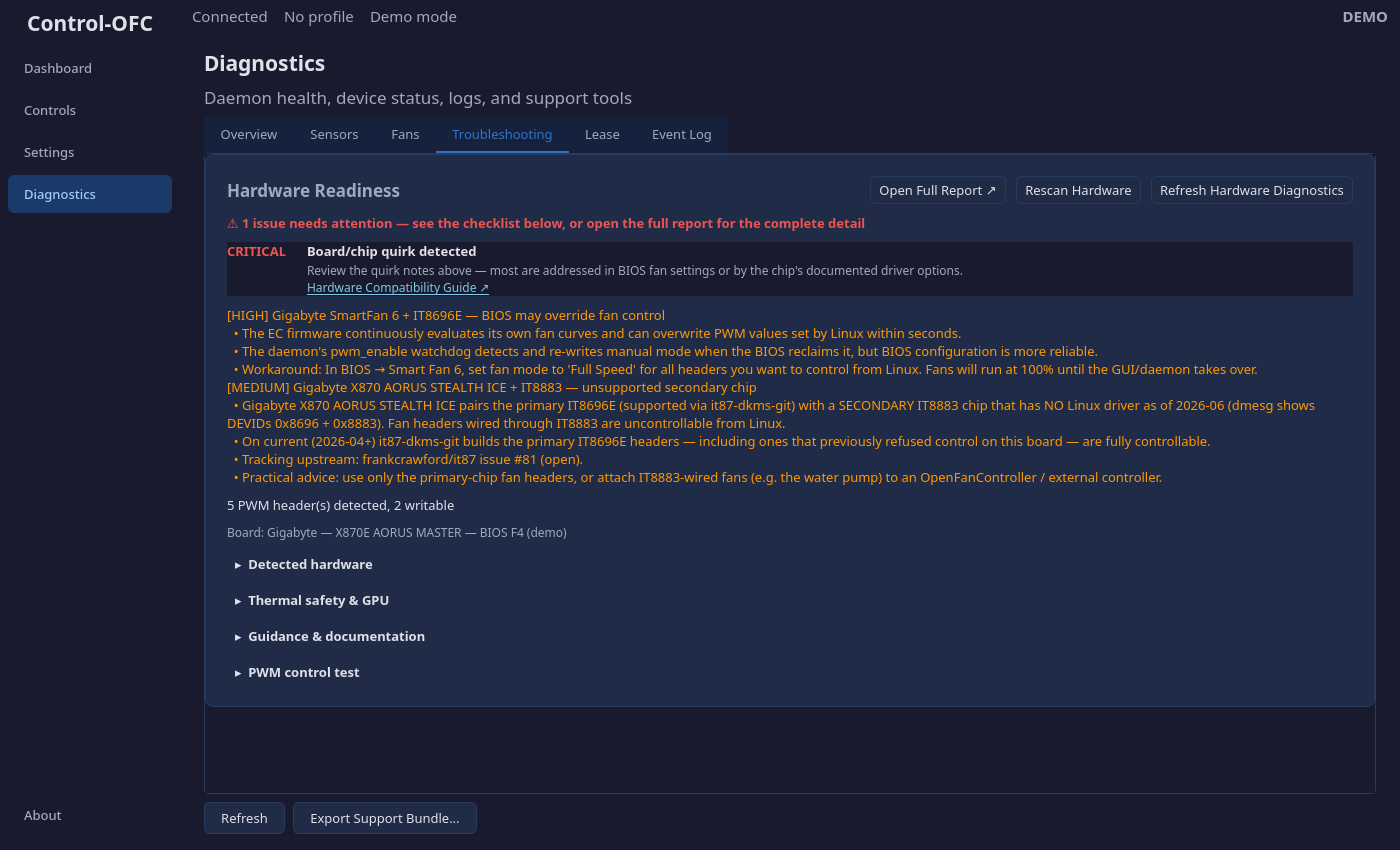
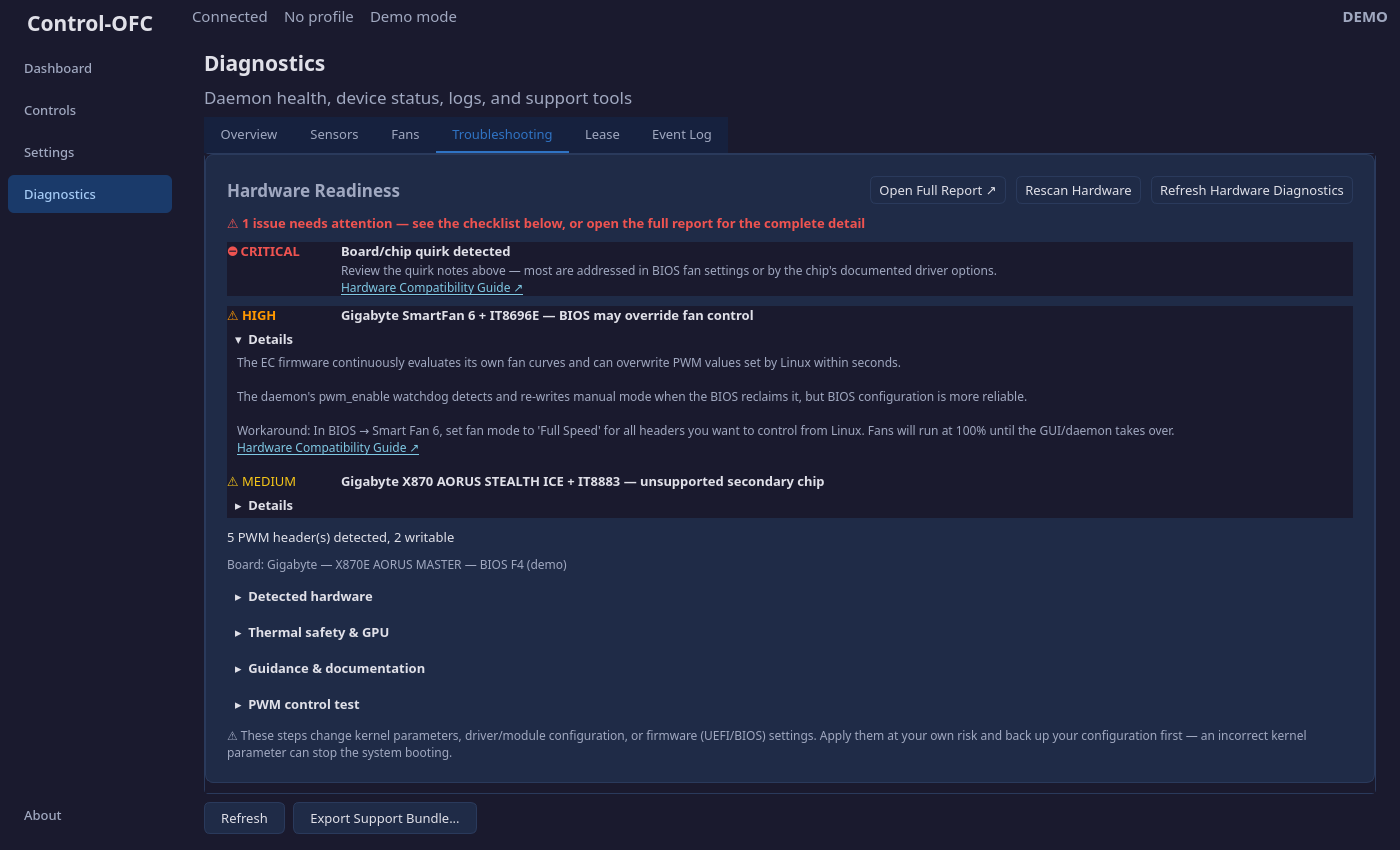
release: v1.41.0 — distinct per-severity Hardware Readiness advisories (DEC-158)
Version bump (pyproject + packaging/PKGBUILD pkgrel=1), CHANGELOG 1.41.0 entry,
README release line, manual refresh (diagnostics + hardware-troubleshooting),
and a recaptured Troubleshooting screenshot showing the four severity tiers.
Pairs with control-ofc-daemon >= v1.18.0 (unchanged — GUI-only release).

Changed region(s): [[0.1536, 0.2753, 0.9829, 0.7953], [0.1229, 0.8259, 0.9829, 0.9482]]

diff --git a/CHANGELOG.md b/CHANGELOG.md
@@ -1,5 +1,28 @@
 # Changelog
 
+## [1.41.0] — 2026-06-17
+
+**Distinct per-severity advisories** in Diagnostics ▸ Troubleshooting ▸ Hardware Readiness
+(GUI-only). DEC-158.
+
+### Added
+- **Each advisory severity is now its own type.** Board/chip vendor quirks render as one
+  collapsible row each, most-severe-first, with a badge that pairs an **icon + word + colour**
+  (never colour alone — WCAG 1.4.1): **CRITICAL** red, **HIGH** orange, **MEDIUM** amber (new
+  `status_caution` theme token), **INFO** blue — so an INFO note no longer looks like a warning.
+- **Collapsible detail per advisory** — open by default for CRITICAL/HIGH, collapsed for
+  MEDIUM/INFO — with clearer prose (bullets only for 3+ short parallel items) and a link to the
+  Hardware Compatibility Guide's *Manufacturer Quirks* section.
+- A single, calm **liability disclaimer** at the bottom of the panel (remediation steps change
+  kernel/driver/firmware settings — applied at your own risk).
+- The pop-out **Full Report** gains a matching **Advisories** section (same data + colours as the
+  inline panel).
+
+### Changed
+- The issue-checklist badges now use the same shared severity presentation (icon + word + colour).
+- Unknown or future severities degrade to the calm INFO treatment rather than appearing as a
+  warning (keeping their own word).
+
 ## [1.40.0] — 2026-06-16
 
 Guided **AIO setup UX — Phase 2** (GUI-only, builds on DEC-156). DEC-157.

diff --git a/manual/diagnostics.md b/manual/diagnostics.md
@@ -97,8 +97,8 @@ The Troubleshooting tab is the **Hardware Readiness** health report — it answe
 It leads with the answer and keeps the detail one click away:
 
 - **Verdict banner** — a green *✓ System ready* line, or an amber/red *⚠ N issue(s) need attention* — always on screen.
-- **Issue checklist** — one row per detected problem, each with a severity badge (**CRITICAL** / **WARNING**), a one-line **fix**, and a clickable link to the relevant documentation. A healthy system shows a single *✓ No issues detected* line. This is the fastest path from "something is wrong" to "here is what to change".
-- **Alerts** — blocking alerts (driver-module collisions, active BIOS interference) and informational notices (dual-chip setup, vendor quirks, ACPI conflicts) appear here when relevant. Safety-critical alerts are always visible — never hidden behind a collapse.
+- **Issue checklist** — one row per detected problem, each with a colour-coded severity badge (**CRITICAL** / **WARN**, icon + word + colour), a one-line **fix**, and a clickable link to the relevant documentation. A healthy system shows a single *✓ No issues detected* line. This is the fastest path from "something is wrong" to "here is what to change".
+- **Alerts & advisories** — blocking alerts (driver-module collisions, active BIOS interference) and informational notices (dual-chip setup, vendor quirks, ACPI conflicts) appear here when relevant. Vendor quirks render as per-advisory rows with a four-tier severity badge (**CRITICAL** red / **HIGH** orange / **MEDIUM** amber / **INFO** blue) and a collapsible detail. Safety-critical alerts are always visible — never hidden behind a collapse.
 - **Detail sections** (collapsed by default, expand on click): **Detected hardware** (chip + kernel-module tables), **BIOS interference detail** (shown only when the BIOS has been reclaiming fan control), **Thermal safety & GPU**, **Guidance & documentation**, and **PWM control test** — the **Test PWM Control** / **Verify All Writable** buttons, plus **Test GPU Fan Control** and **Restore GPU Fan to Automatic** when a writable AMD GPU is present.
 - **Restore GPU Fan to Automatic** hands the GPU fan back to the firmware's default curve — use it to undo a static GPU speed set this session without restarting the daemon. It is disabled (with the reason in its tooltip) while an active profile is driving the GPU fan: remove the GPU from its fan role or deactivate the profile first.
 - **Rescan Hardware** asks the daemon to re-enumerate hwmon sensors and PWM headers — use it right after loading a sensor kernel module (for example following a driver install). New sensors appear within a couple of poll cycles; brand-new fan-*control* hardware still requires a daemon restart.

diff --git a/README.md b/README.md
@@ -1,6 +1,6 @@
 # Control-OFC GUI
 
-**Latest release:** v1.40.0 — 2026-06-16. Pairs with `control-ofc-daemon` ≥ v1.18.0. See [`CHANGELOG.md`](CHANGELOG.md) for the full history.
+**Latest release:** v1.41.0 — 2026-06-17. Pairs with `control-ofc-daemon` ≥ v1.18.0. See [`CHANGELOG.md`](CHANGELOG.md) for the full history.
 
 Desktop fan control interface for Linux. Communicates with the [`control-ofc-daemon`](https://github.com/Plan-B-Development/control-ofc-daemon) service to monitor temperatures, manage fan speeds, and apply custom fan curves.
 

diff --git a/manual/hardware-troubleshooting.md b/manual/hardware-troubleshooting.md
@@ -97,7 +97,7 @@ The daemon includes a watchdog that re-asserts `pwm_enable=1` automatically — 
 
 ## Vendor quirks
 
-When the daemon reports a board vendor and chip combination that matches a known workaround pattern, the Hardware Readiness report automatically renders the relevant guidance — BIOS settings to change, kernel modules to install, or known-issue notes. Currently surfaced quirks include:
+When the daemon reports a board vendor and chip combination that matches a known workaround pattern, the Hardware Readiness report automatically renders the relevant guidance — BIOS settings to change, kernel modules to install, or known-issue notes. Each advisory is shown as its own row, most-severe-first, with a colour-coded severity badge that pairs an icon, the word, and a colour — **CRITICAL** (red), **HIGH** (orange), **MEDIUM** (amber), **INFO** (blue) — so an informational note never looks like a warning. The summary is always visible; click **Details** to expand the full explanation and a link to the Hardware Compatibility Guide (CRITICAL and HIGH advisories start expanded; MEDIUM and INFO start collapsed to keep the panel uncluttered). Currently surfaced quirks include:
 
 - **Gigabyte + IT8696E** — Smart Fan 6 BIOS setup notes for AM5 800-series AORUS boards
 - **NCT6798 / NCT6799 on ASUS** — typical driver-loaded paths and ASUS WMI sensor helpers